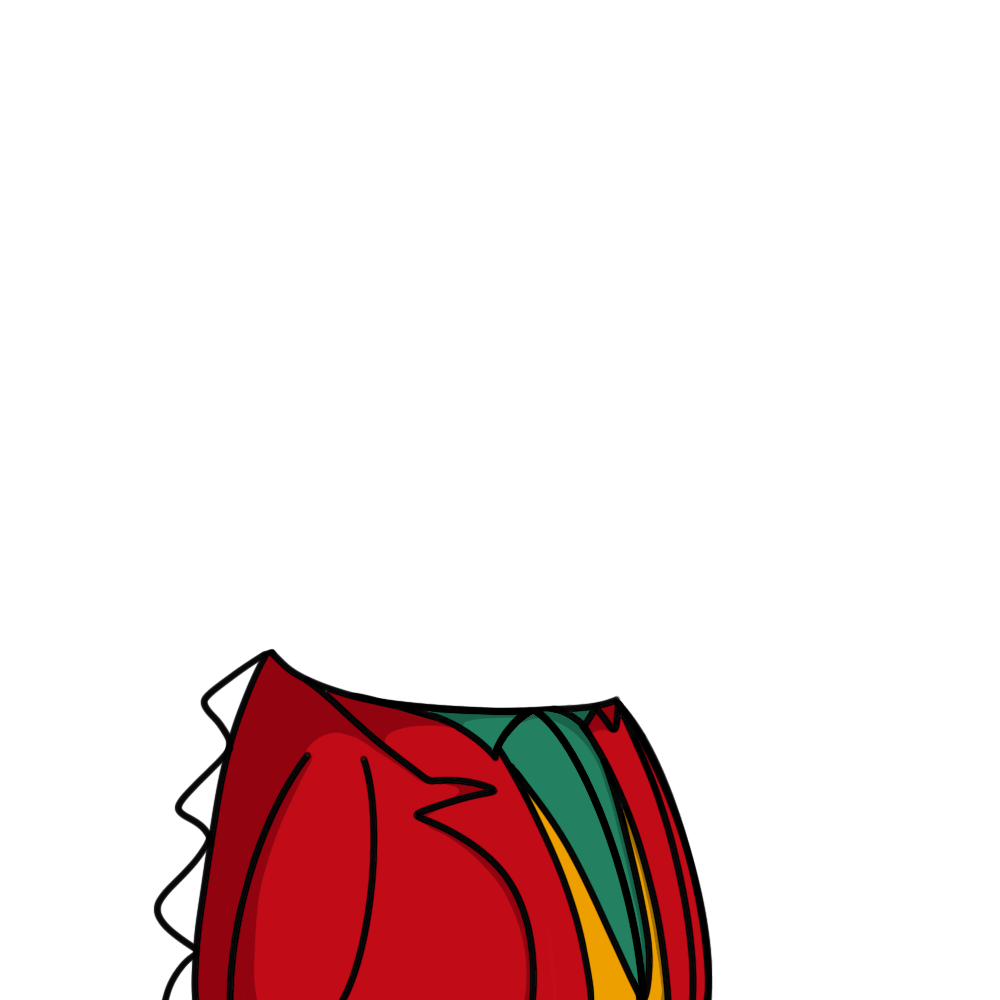
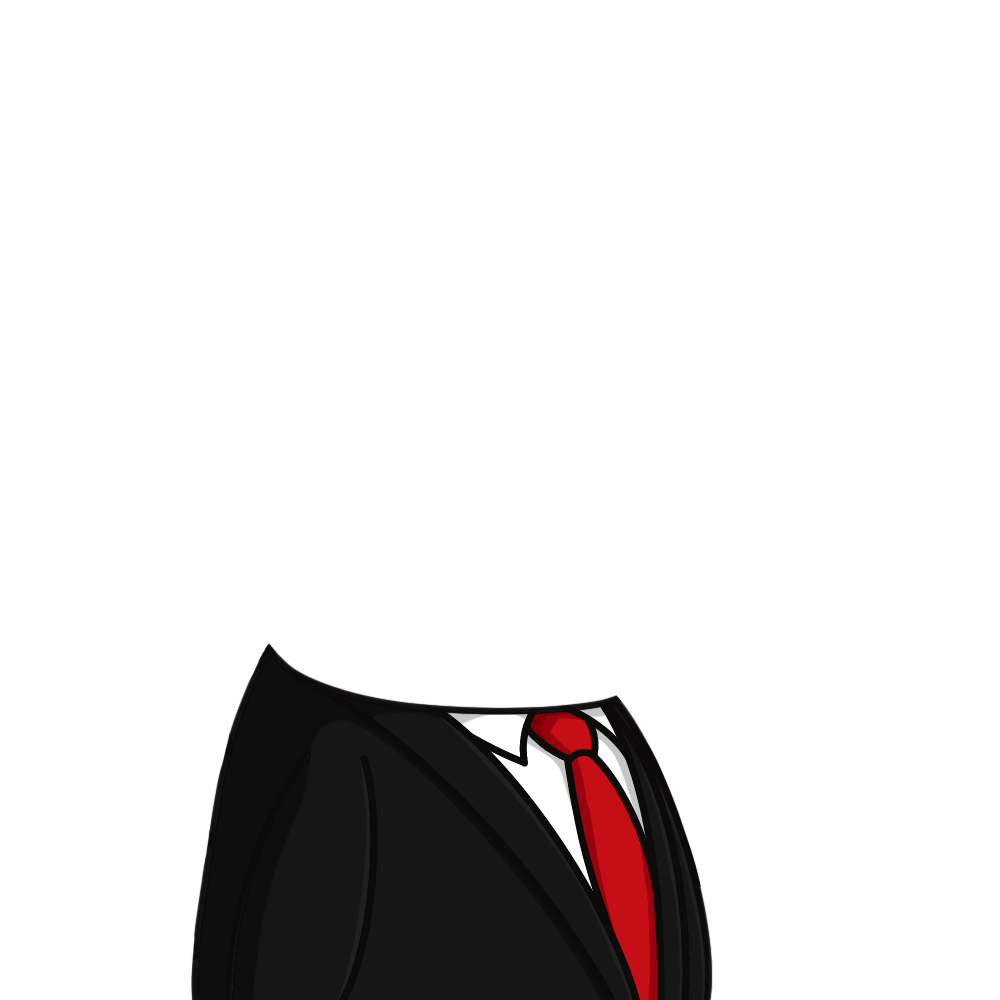
v16.11

Changed region(s): [[0.155, 0.651, 0.713, 1.0]]

diff --git a/index.html b/index.html
@@ -57,6 +57,8 @@
                         <button class="hats-option" data-img="hat (9).png" title="Hat 9"><img src="images/hats/hat (9).png" alt="Hat 9"></button>
                         <button class="hats-option" data-img="hat (10).png" title="Hat 10"><img src="images/hats/hat (10).png" alt="Hat 10"></button>
                         <button class="hats-option" data-img="hat (11).png" title="Hat 11"><img src="images/hats/hat (11).png" alt="Hat 11"></button>
+                        <button class="hats-option" data-img="hat (12).png" title="Hat 12"><img src="images/hats/hat (12).png" alt="Hat 12"></button>
+                        <button class="hats-option" data-img="hat (13).png" title="Hat 13"><img src="images/hats/hat (13).png" alt="Hat 13"></button>
                     </div>
                     <button class="next">❯</button>
                 </div>
@@ -101,6 +103,8 @@
                         <button class="clothes-option" data-img="clothes (11).png" title="Clothes 11"><img src="images/clothes/clothes (11).png" alt="Clothes 11"></button>
                         <button class="clothes-option" data-img="clothes (12).png" title="Clothes 12"><img src="images/clothes/clothes (12).png" alt="Clothes 12"></button>
                         <button class="clothes-option" data-img="clothes (13).png" title="Clothes 13"><img src="images/clothes/clothes (13).png" alt="Clothes 13"></button>
+                        <button class="clothes-option" data-img="clothes (14).png" title="Clothes 14"><img src="images/clothes/clothes (14).png" alt="Clothes 14"></button>
+                        <button class="clothes-option" data-img="clothes (15).png" title="Clothes 15"><img src="images/clothes/clothes (15).png" alt="Clothes 15"></button>
                     </div>
                     <button class="next">❯</button>
                 </div>
@@ -114,6 +118,8 @@
                     <div class="options mouth">
                         <button class="mouth-option" data-img="mouth (1).png" title="Mouth 1"><img src="images/mouth/mouth (1).png" alt="Mouth 1"></button>
                         <button class="mouth-option" data-img="mouth (2).png" title="Mouth 2"><img src="images/mouth/mouth (2).png" alt="Mouth 2"></button>
+                        <button class="mouth-option" data-img="mouth (3).png" title="Mouth 3"><img src="images/mouth/mouth (3).png" alt="Mouth 3"></button>
+                        <button class="mouth-option" data-img="mouth (4).png" title="Mouth 4"><img src="images/mouth/mouth (4).png" alt="Mouth 4"></button>
                    
                     </div>
                     <button class="next">❯</button>

diff --git a/script.js b/script.js
@@ -12,10 +12,10 @@ avatarImage.onerror = function() {
 // Inicializa as opções de acessórios
 const accessories = {
   front: ['front (1).png', 'front (2).png', 'front (3).png'],
-  hats: ['hat (1).png', 'hat (2).png', 'hat (3).png', 'hat (4).png', 'hat (5).png', 'hat (6).png', 'hat (7).png','hat (8).png', 'hat (9).png','hat (10).png', 'hat (11).png'],
+  hats: ['hat (1).png', 'hat (2).png', 'hat (3).png', 'hat (4).png', 'hat (5).png', 'hat (6).png', 'hat (7).png','hat (8).png', 'hat (9).png','hat (10).png', 'hat (11).png','hat (12).png', 'hat (13).png'],
   glasses: ['glasses (1).png', 'glasses (2).png', 'glasses (3).png', 'glasses (4).png', 'glasses (5).png', 'glasses (6).png', 'glasses (7).png', 'glasses (8).png', 'glasses (9).png'],
-  clothes: ['clothes (1).png', 'clothes (2).png', 'clothes (3).png', 'clothes (4).png', 'clothes (5).png', 'clothes (6).png', 'clothes (7).png', 'clothes (8).png', 'clothes (9).png','clothes (10).png','clothes (11).png','clothes (12).png', 'clothes (13).png'],
-  mouth: ['mouth (1).png', 'mouth (2).png'],
+  clothes: ['clothes (1).png', 'clothes (2).png', 'clothes (3).png', 'clothes (4).png', 'clothes (5).png', 'clothes (6).png', 'clothes (7).png', 'clothes (8).png', 'clothes (9).png','clothes (10).png','clothes (11).png','clothes (12).png', 'clothes (13).png','clothes (13).png', 'clothes (14).png'],
+  mouth: ['mouth (1).png', 'mouth (2).png', 'mouth (3).png', 'mouth (4).png'],
   cores: ['base (1).png', 'base (2).png', 'base (3).png', 'base (4).png', 'base (5).png', 'base (6).png', 'base (7).png', 'base (8).png'],
   based: ['aesthetic (1).png', 'aesthetic (2).png', 'aesthetic (3).png', 'aesthetic (4).png', 'aesthetic (5).png', 'aesthetic (6).png', 'aesthetic (7).png', 'aesthetic (8).png', 'aesthetic (9).png', 'aesthetic (10).png', 'aesthetic (11).png']
 };
